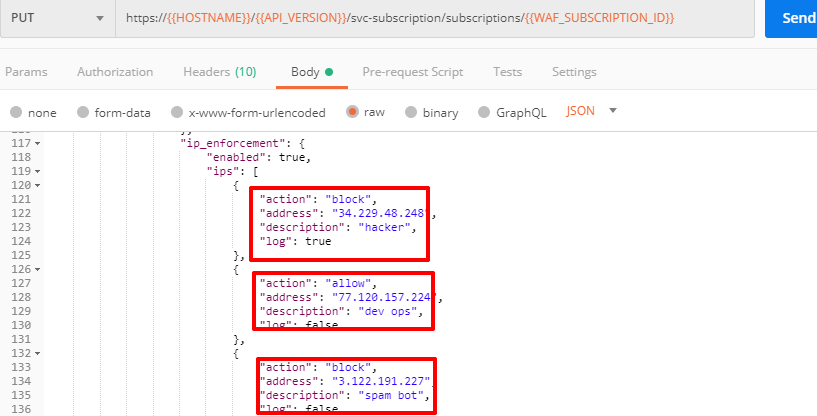
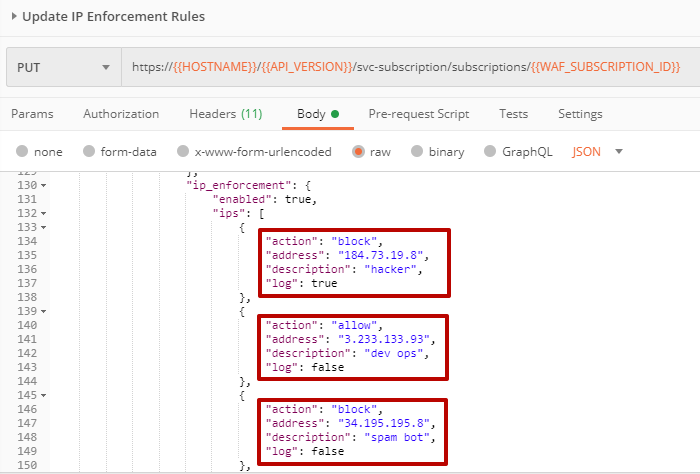
update blacklist and whitelist section (#2)

diff --git a/README.rst b/README.rst
@@ -494,7 +494,7 @@ You can choose to block a set of IP addresses via "IP Enforcement Rules". Below 
 
 .. figure:: _figures/150.png
 
-`b)` Here we will add "34.229.48.248" IP to be blocked, click "+" to add a new record and use "77.120.157.224" IP to be whitelisted (allowed). Add a short description for each, check to log events for the blocked IP and click **Update**. 
+`b)` Here we will add "184.73.19.8" IP to be blocked, click "+" to add a new record and use "3.233.133.93" IP to be whitelisted (allowed). Add a short description for each, check to log events for the blocked IP and click **Update**.
 
 .. figure:: _figures/151.png
 
